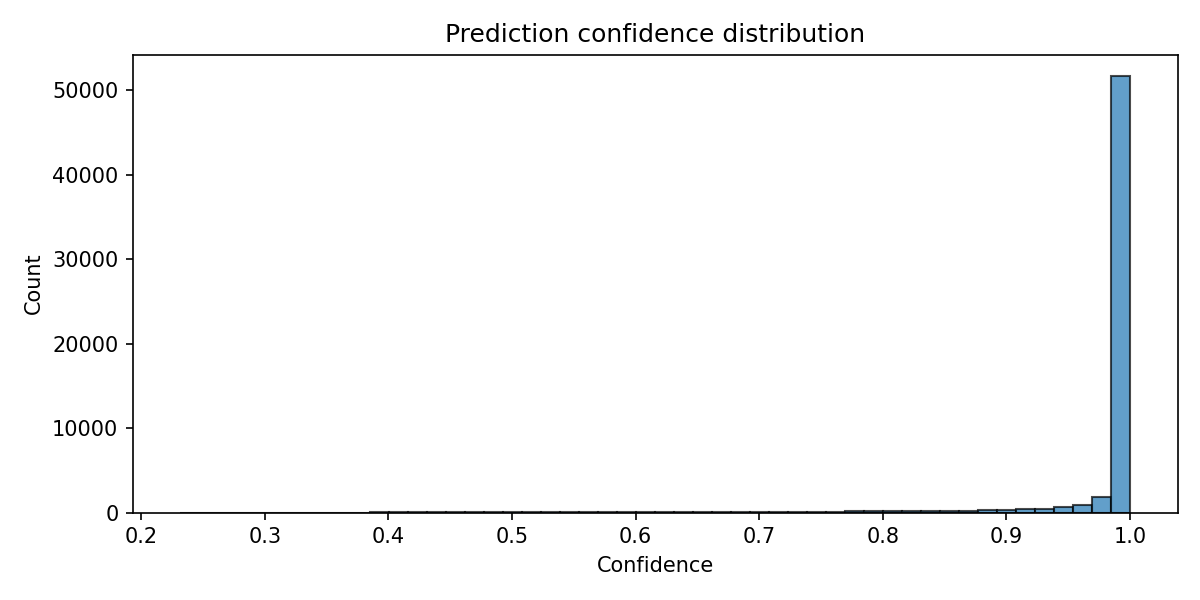
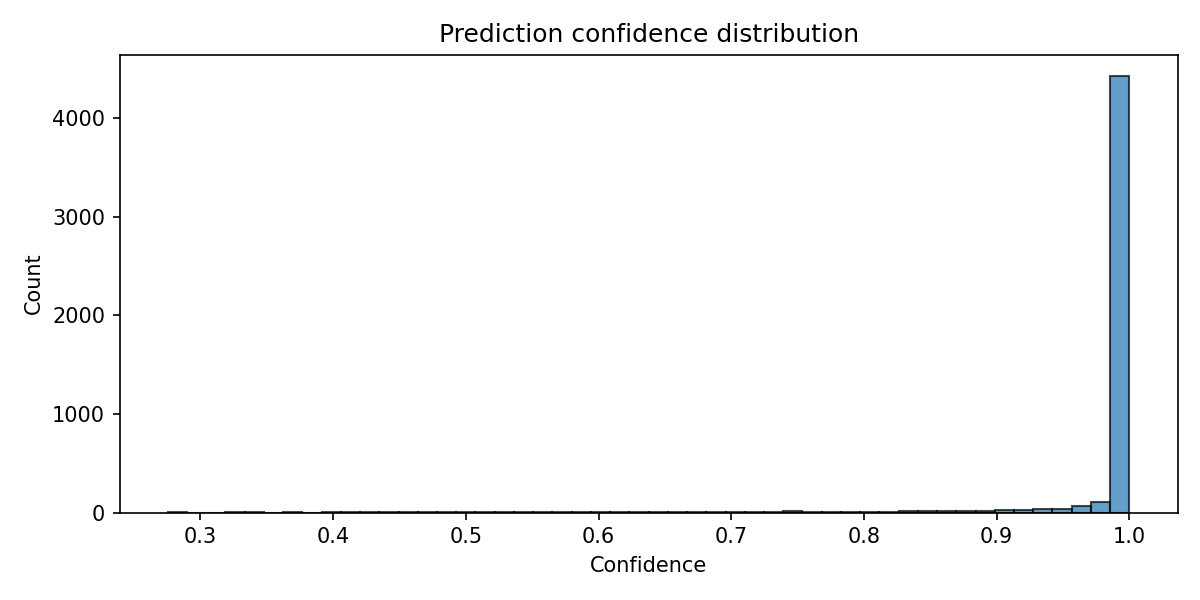
first full pipeline with dropout to avoid overfitting.

diff --git a/sampling/visualize_pixel_predictions.py b/sampling/visualize_pixel_predictions.py
@@ -1,0 +1,167 @@
+"""Visualize pixel prediction results on the val set."""
+
+import sys
+from pathlib import Path
+
+import numpy as np
+import matplotlib.pyplot as plt
+import torch
+import torch.nn.functional as F
+
+ROOT = Path(__file__).resolve().parent.parent
+sys.path.insert(0, str(ROOT))
+sys.path.insert(0, str(ROOT / "MnistSimpleCNN" / "code"))
+
+from models.modelM5 import ModelM5
+from class_prediction import predict_proba, SEED, VAL_SIZE, BATCH_SIZE as CLS_BATCH
+from pixel_prediction import ConditionalAutoencoder
+
+DATA_DIR = ROOT / "data"
+OUT_DIR = Path(__file__).resolve().parent / "sample_images"
+OUT_DIR.mkdir(exist_ok=True)
+
+device = torch.device(
+    "cuda" if torch.cuda.is_available()
+    else "mps" if torch.backends.mps.is_available()
+    else "cpu"
+)
+
+# Load data — val split only
+images = np.load(DATA_DIR / "train_data.npz")["data"]
+labels = np.load(DATA_DIR / "train_labels.npy")
+images = torch.tensor(images, dtype=torch.float32) / 255.0
+
+rng_split = np.random.RandomState(SEED)
+idx = rng_split.permutation(len(images))
+val_idx = idx[:VAL_SIZE]
+
+images = images[val_idx]
+labels = labels[val_idx]
+
+ground_truth = images[:, :, 10:18, 10:18].clone()
+masked = images.clone()
+masked[:, :, 10:18, 10:18] = 0.0
+
+# Get class predictions
+classifier = ModelM5()
+classifier.load_state_dict(torch.load(ROOT / "donut_classifier.pth", map_location=device, weights_only=True))
+classifier.to(device)
+classifier.eval()
+
+all_probs = []
+with torch.no_grad():
+    for i in range(0, len(masked), CLS_BATCH):
+        batch = masked[i : i + CLS_BATCH].to(device)
+        all_probs.append(predict_proba(classifier, batch).cpu())
+all_probs = torch.cat(all_probs)
+all_confs = all_probs.max(1).values.unsqueeze(1)
+all_preds = all_probs.argmax(1).numpy()
+
+# Get pixel predictions
+model = ConditionalAutoencoder()
+model.load_state_dict(torch.load(ROOT / "pixel_predictor.pth", map_location=device, weights_only=True))
+model.to(device)
+model.eval()
+
+pred_patches = []
+with torch.no_grad():
+    for i in range(0, len(masked), CLS_BATCH):
+        m = masked[i : i + CLS_BATCH].to(device)
+        p = all_probs[i : i + CLS_BATCH].to(device)
+        c = all_confs[i : i + CLS_BATCH].to(device)
+        pred_patches.append(model(m, p, c).cpu())
+pred_patches = torch.cat(pred_patches)
+
+rng = np.random.default_rng()
+
+# --- 1) Random samples: masked | predicted center | ground truth | full reconstructed ---
+sample_idx = rng.choice(len(masked), 16, replace=False)
+
+fig, axes = plt.subplots(16, 5, figsize=(10, 32))
+fig.suptitle("Pixel predictions (val set)", fontsize=14, y=1.0)
+col_titles = ["Masked input", "Predicted patch", "Ground truth patch", "Reconstructed", "Ground truth full"]
+
+for col, title in enumerate(col_titles):
+    axes[0, col].set_title(title, fontsize=10)
+
+for row, i in enumerate(sample_idx):
+    # Masked input
+    axes[row, 0].imshow(masked[i, 0], cmap="gray", vmin=0, vmax=1)
+    axes[row, 0].set_ylabel(f"pred={all_preds[i]}\ntrue={int(labels[i])}", fontsize=7)
+
+    # Predicted patch
+    axes[row, 1].imshow(pred_patches[i, 0], cmap="gray", vmin=0, vmax=1)
+
+    # Ground truth patch
+    axes[row, 2].imshow(ground_truth[i, 0], cmap="gray", vmin=0, vmax=1)
+
+    # Full reconstructed image
+    recon = masked[i].clone()
+    recon[:, 10:18, 10:18] = pred_patches[i]
+    axes[row, 3].imshow(recon[0], cmap="gray", vmin=0, vmax=1)
+
+    # Ground truth full image
+    axes[row, 4].imshow(images[i, 0], cmap="gray", vmin=0, vmax=1)
+
+    for col in range(5):
+        axes[row, col].axis("off")
+
+fig.tight_layout()
+fig.savefig(OUT_DIR / "pixel_predictions_random.png", dpi=150)
+plt.close(fig)
+
+# --- 2) MSE per-sample histogram ---
+per_sample_mse = F.mse_loss(pred_patches, ground_truth, reduction="none").mean(dim=(1, 2, 3)).numpy()
+
+fig, ax = plt.subplots(figsize=(8, 4))
+ax.hist(per_sample_mse, bins=50, edgecolor="black", alpha=0.7)
+ax.set_xlabel("Per-sample MSE")
+ax.set_ylabel("Count")
+ax.set_title(f"Val set MSE distribution (mean={per_sample_mse.mean():.4f})")
+ax.axvline(per_sample_mse.mean(), color="red", linestyle="--", label=f"mean={per_sample_mse.mean():.4f}")
+ax.legend()
+fig.tight_layout()
+fig.savefig(OUT_DIR / "pixel_predictions_mse_dist.png", dpi=150)
+plt.close(fig)
+
+# --- 3) Best and worst predictions ---
+sorted_idx = np.argsort(per_sample_mse)
+best_idx = sorted_idx[:8]
+worst_idx = sorted_idx[-8:]
+
+fig, axes = plt.subplots(2, 8, figsize=(16, 4))
+fig.suptitle("Best predictions (lowest MSE)", fontsize=12)
+for col, i in enumerate(best_idx):
+    recon = masked[i].clone()
+    recon[:, 10:18, 10:18] = pred_patches[i]
+    axes[0, col].imshow(recon[0], cmap="gray", vmin=0, vmax=1)
+    axes[0, col].set_title(f"MSE={per_sample_mse[i]:.4f}", fontsize=7)
+    axes[0, col].axis("off")
+    axes[1, col].imshow(images[val_idx[0]:val_idx[0]+1][0, 0] if False else ground_truth[i, 0], cmap="gray", vmin=0, vmax=1)
+    # Show original full image for reference
+    orig = images[i].clone()
+    axes[1, col].imshow(orig[0], cmap="gray", vmin=0, vmax=1)
+    axes[1, col].set_title("original", fontsize=7)
+    axes[1, col].axis("off")
+fig.tight_layout()
+fig.savefig(OUT_DIR / "pixel_predictions_best.png", dpi=150)
+plt.close(fig)
+
+fig, axes = plt.subplots(2, 8, figsize=(16, 4))
+fig.suptitle("Worst predictions (highest MSE)", fontsize=12)
+for col, i in enumerate(worst_idx):
+    recon = masked[i].clone()
+    recon[:, 10:18, 10:18] = pred_patches[i]
+    axes[0, col].imshow(recon[0], cmap="gray", vmin=0, vmax=1)
+    axes[0, col].set_title(f"MSE={per_sample_mse[i]:.4f}", fontsize=7)
+    axes[0, col].axis("off")
+    orig = images[i].clone()
+    axes[1, col].imshow(orig[0], cmap="gray", vmin=0, vmax=1)
+    axes[1, col].set_title("original", fontsize=7)
+    axes[1, col].axis("off")
+fig.tight_layout()
+fig.savefig(OUT_DIR / "pixel_predictions_worst.png", dpi=150)
+plt.close(fig)
+
+print(f"Val MSE: {per_sample_mse.mean():.6f}")
+print(f"Saved to {OUT_DIR}")

diff --git a/sampling/visualize_predictions.py b/sampling/visualize_predictions.py
@@ -9,9 +9,10 @@ import torch
 import torch.nn.functional as F
 
 sys.path.insert(0, str(Path(__file__).resolve().parent.parent))
-from class_prediction import DonutClassifier, BATCH_SIZE
+from class_prediction import ModelM5, predict_proba, BATCH_SIZE, SEED, VAL_SIZE
 
-DATA_DIR = Path(__file__).resolve().parent.parent / "data"
+ROOT = Path(__file__).resolve().parent.parent
+DATA_DIR = ROOT / "data"
 OUT_DIR = Path(__file__).resolve().parent / "sample_images"
 OUT_DIR.mkdir(exist_ok=True)
 
@@ -21,27 +22,33 @@ device = torch.device(
     else "cpu"
 )
 
-# Load data
+# Load data — use the same split as training
 images = np.load(DATA_DIR / "train_data.npz")["data"]  # (60000,1,28,28)
 labels = np.load(DATA_DIR / "train_labels.npy")
+
+rng_split = np.random.RandomState(SEED)
+idx = rng_split.permutation(len(images))
+val_idx = idx[:VAL_SIZE]
+
+images = images[val_idx]
+labels = labels[val_idx]
 
 images_t = torch.tensor(images, dtype=torch.float32) / 255.0
 masked = images_t.clone()
 masked[:, :, 10:18, 10:18] = 0.0
 
 # Load model
-model = DonutClassifier()
-ROOT = Path(__file__).resolve().parent.parent
+model = ModelM5()
 model.load_state_dict(torch.load(ROOT / "donut_classifier.pth", map_location=device, weights_only=True))
 model.to(device)
 model.eval()
 
-# Get predictions for all images
+# Get predictions on val set only
 all_probs = []
 with torch.no_grad():
     for i in range(0, len(masked), BATCH_SIZE):
         batch = masked[i : i + BATCH_SIZE].to(device)
-        all_probs.append(model.predict_proba(batch).cpu())
+        all_probs.append(predict_proba(model, batch).cpu())
 all_probs = torch.cat(all_probs)
 all_preds = all_probs.argmax(1).numpy()
 all_confs = all_probs.max(1).values.numpy()
@@ -51,7 +58,7 @@ rng = np.random.default_rng()
 # --- 1) Random predictions grid ---
 idx = rng.choice(len(images), 24, replace=False)
 fig, axes = plt.subplots(4, 6, figsize=(12, 8))
-fig.suptitle("Donut classifier predictions (masked images)", fontsize=14)
+fig.suptitle("Donut classifier predictions (val set, masked images)", fontsize=14)
 for ax, i in zip(axes.flat, idx):
     ax.imshow(masked[i, 0], cmap="gray", vmin=0, vmax=1)
     correct = all_preds[i] == labels[i]
@@ -88,5 +95,5 @@ fig.tight_layout()
 fig.savefig(OUT_DIR / "predictions_confidence.png", dpi=150)
 plt.close(fig)
 
-print(f"Overall accuracy: {(all_preds == labels).mean():.4f}")
+print(f"Val accuracy: {(all_preds == labels).mean():.4f}  ({(all_preds != labels).sum()} mistakes out of {len(labels)})")
 print(f"Saved to {OUT_DIR}")
